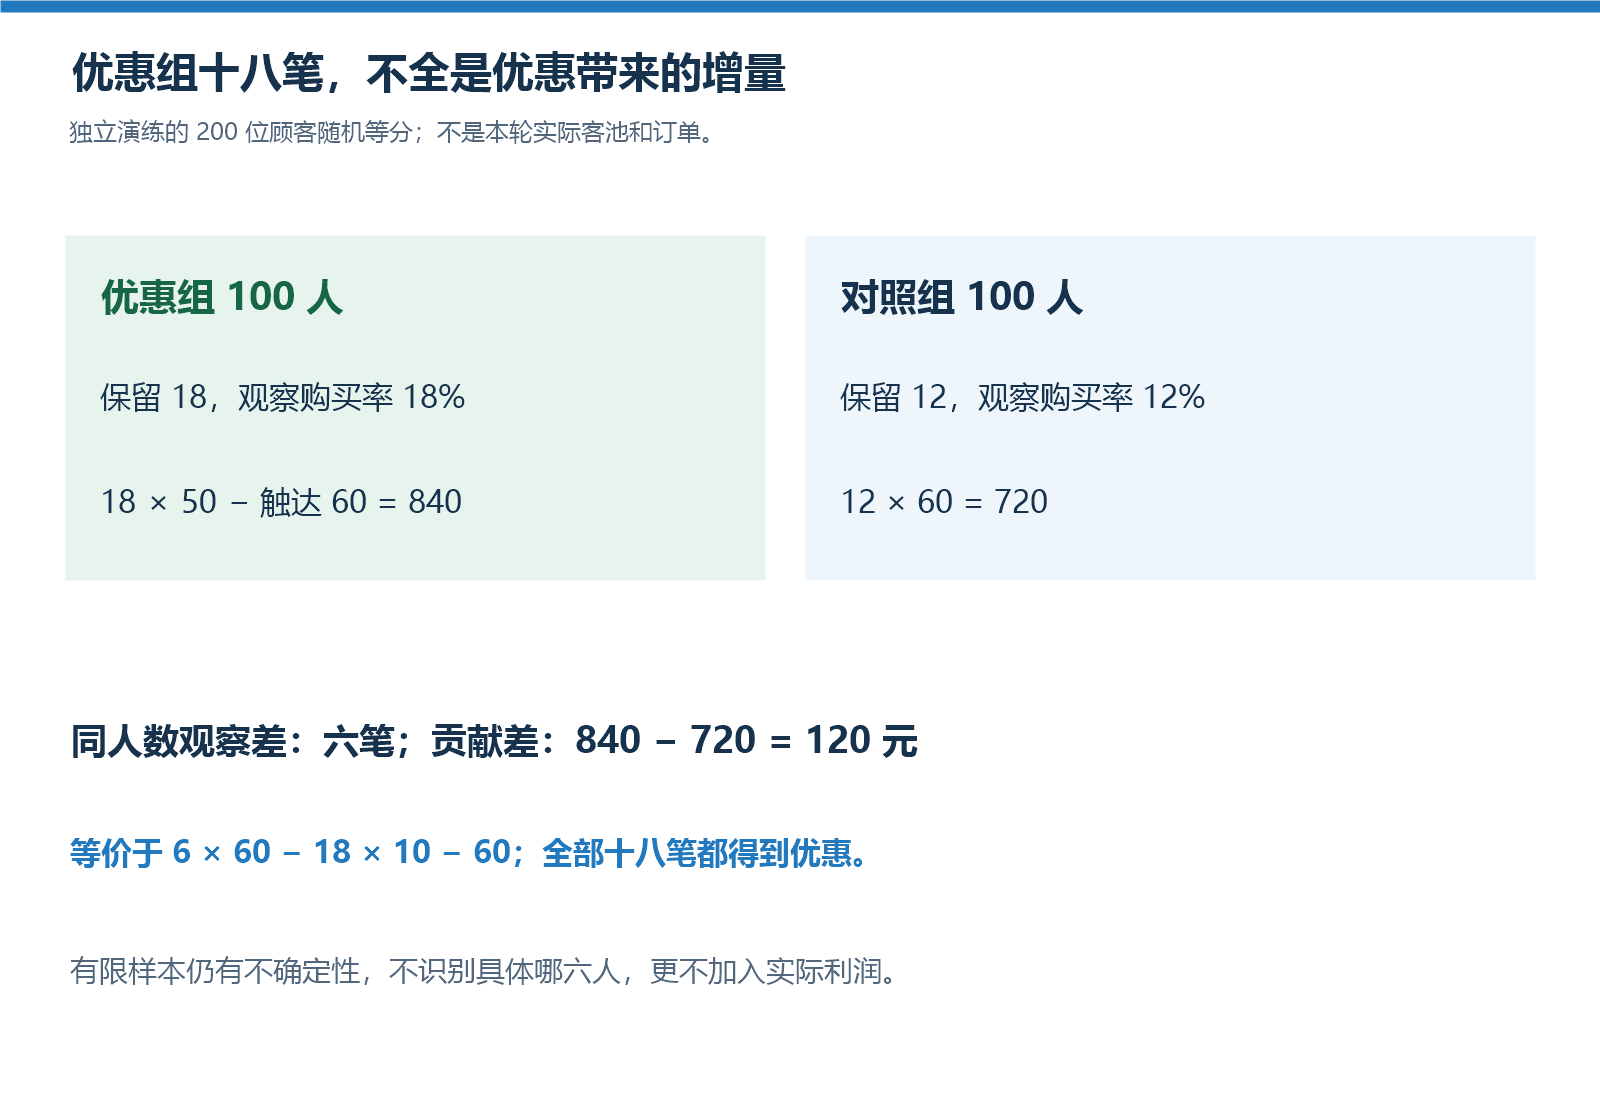
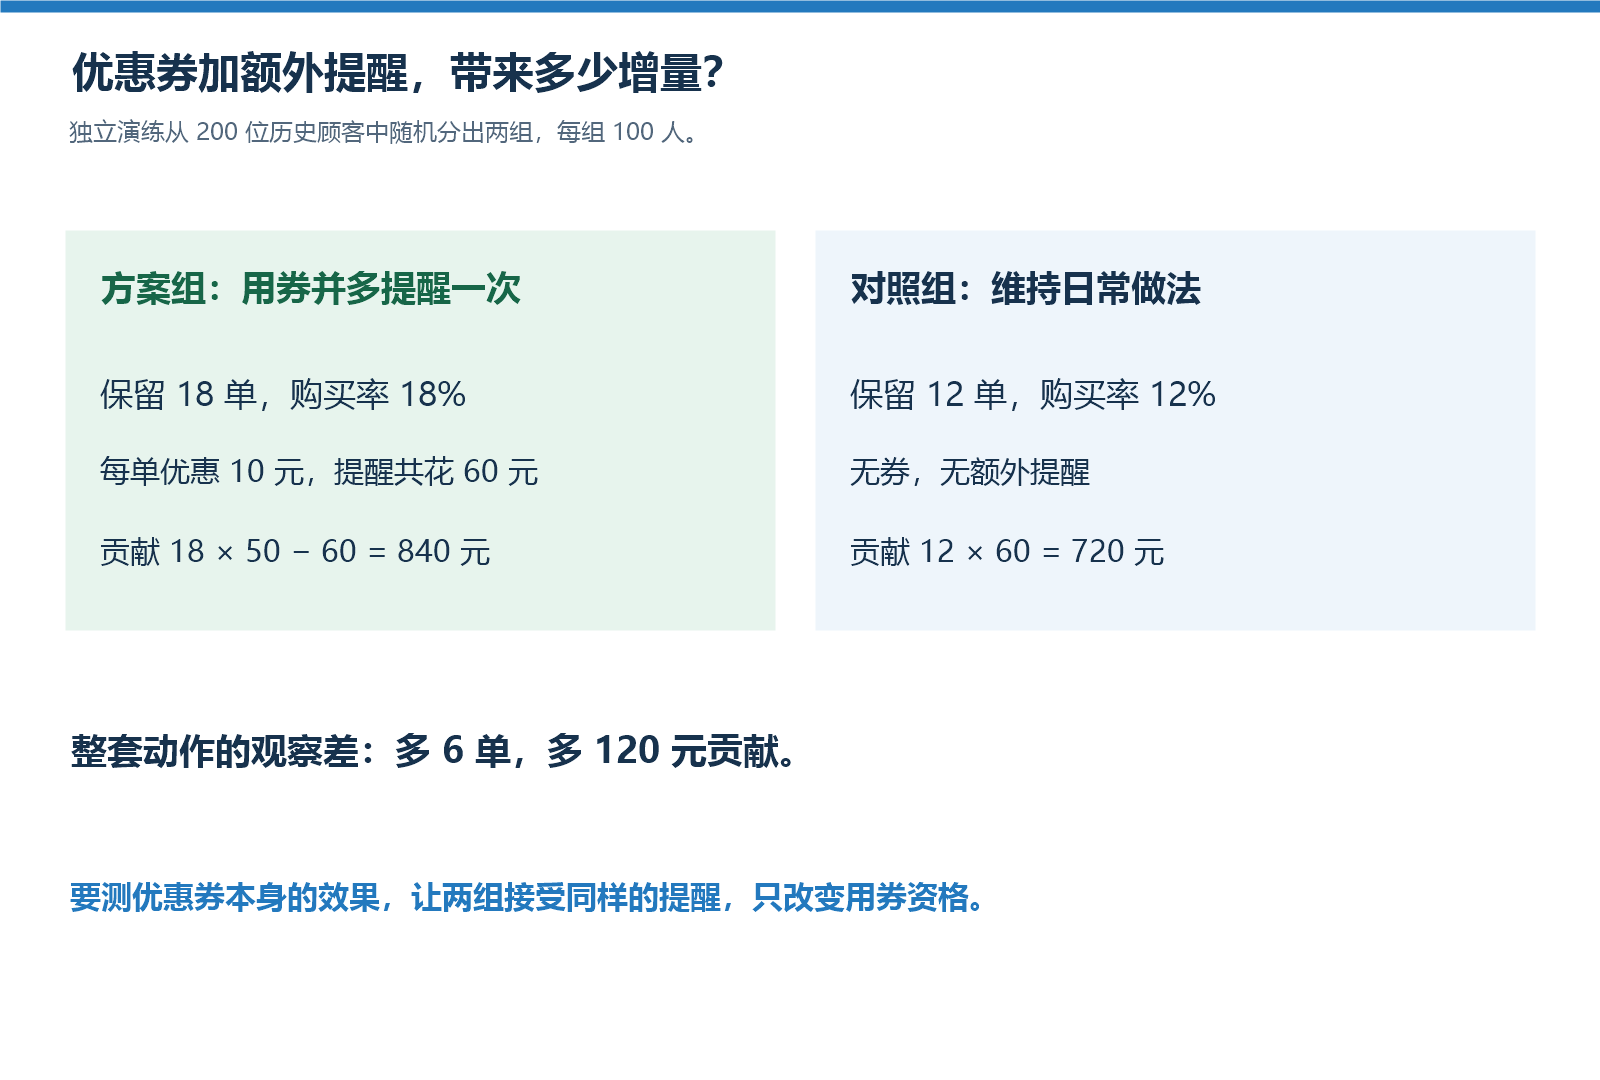
Clarify course experiment, supply planning and quarterly review

diff --git a/第七章-从流量投放到用户持续购买/第七章-从流量投放到用户持续购买.md b/第七章-从流量投放到用户持续购买/第七章-从流量投放到用户持续购买.md
@@ -335,17 +335,18 @@ ROAS 常用来表示广告归因销售额与广告费之比。本例支付口径
 | 想回答的问题 | 可以设计的比较 | 不能替代它的数字 |
 |---|---|---|
 | 新页面是否改善转化 | 同条件访客随机进入不同版本 | 新页面上线后总单量变高 |
-| 优惠是否带来额外购买 | 合适的客群随机分为优惠与对照 | 所有用券订单数 |
+| 优惠券本身是否带来额外购买 | 随机分组，两组同样触达，只改变用券资格 | 所有用券订单数 |
+| 优惠券加额外触达是否值得做 | 随机比较整套动作与平时做法 | 只统计用券订单的贡献 |
 | 广告是否创造增量 | 在可行条件下设计受众、地区或时段对照 | 广告归因销售额 |
 | 内容是否改善经营 | 先定义内容目标与可识别比较 | 播放、点赞或末次入口单量 |
 
 没有随机条件时，可以做前后或相近对象比较，但要核对活动、季节、商品、价格和受众变化，明确证据较弱。不能把同时发生的变化都归功于自己的操作。
 
-### 5.2　做一道独立优惠增量演练
+### 5.2　演练优惠券加额外触达的效果
 
-以下是为学习方法另设的 200 位历史顾客，不是本轮实际的 80 人客池，也不增加任何实际订单、优惠或费用。假定随机等分 100 人、条件相近，各人在观察期最多保留一单；优惠组每保留单减 10，对照组不减。退款已处理，其他条件不变。
+另取 200 位历史顾客作为独立演练，随机分为两组，每组 100 人。两组均保留日常服务，各人在观察期最多保留一单。方案组每保留单减 10 元，并多收到一次活动提醒，提醒服务共花 60 元。对照组维持日常做法，无券，也无额外提醒。两组的商品、库存限制、观察期及退款处理规则一致。演练数据与本轮实际 80 人客池分别记录。
 
-| 独立演练 | 优惠组 | 对照组 |
+| 独立演练 | 用券并额外提醒 | 维持日常做法 |
 |---|---:|---:|
 | 顾客数 | 100 | 100 |
 | 保留订单及购买顾客 | 18 | 12 |
@@ -355,19 +356,19 @@ ROAS 常用来表示广告归因销售额与广告费之比。本例支付口径
 | 本组额外触达费用 | 60 | 0 |
 | 贡献相抵 | 18 × 50 − 60 = 840 | 12 × 60 = 720 |
 
-![随机对照与优惠增量](images/08-随机对照与优惠增量.png)
+![随机比较优惠券加额外触达与日常做法](images/08-随机对照与优惠增量.png)
 
-*图 7-8　按同样人数的观察差估计六笔增量，不把十八笔全算成增量。*
+*图 7-8　按两组观察差估计整套动作带来的六笔增量和 120 元贡献差。*
 
-观察率差 **6 个百分点**，相对观察提升为 18%／12% − 1 = 50%。按对照估计，100 人中额外六笔；但优惠组 18 笔都用券，不能只算六笔的优惠。
+方案组和对照组的购买率相差 **6 个百分点**，相对观察提升为 18%／12% − 1 = 50%。按对照估计，整套动作让每 100 人多六笔保留订单。方案组 18 笔都用券，所以计算贡献时要承担全部 18 笔优惠。
 
 贡献差 = 6 × 60 − 18 × 10 − 60 = **120 元**，也等于 840 − 720。这里优惠已经在净贡献中扣除，没有再加一遍营销费用。
 
-这是有限样本的观察估计，不说明能辨认出具体哪六人“被优惠改变”，也不能保证重复试验仍有六笔。真实实验要预先考虑样本、随机化、观察窗口和不确定性。
+这个有限样本同时比较了优惠和提醒，数据只支持估计整套动作的效果，无法拆出其中多少来自优惠券。若问题是优惠券本身能否带来增量，两组应收到同频次、同渠道的提醒，唯一改变用券资格，并在两组各自的贡献里计入对应的触达费。正式试验还要预先确定样本、随机化、观察窗口和判断标准。
 
 ### 5.3　让实验在开始前可被复查
 
-写清业务假设、对象、分组单位、唯一变化、主指标、体验与库存约束、费用、样本及观察时长。去重和分组要稳定，顾客不要今天看旧页、明天看新页却被当成两位独立样本。
+写清业务假设、对象、分组单位、两组实际差异、主指标、体验与库存约束、费用、样本及观察时长。检验单项动作时只改变对应条件，检验整套方案时把其中各项动作写清楚。去重和分组要稳定，顾客不要今天看旧页、明天看新页却被当成两位独立样本。
 
 先安排数据记录，再开始实验。避免把效果最好的几天单独拿出来，或反复查看直到偶然出现好结果就停止。出现严重商品、交付或系统问题，可以按预设异常规则暂停并记录原因，不能把异常组删掉后宣称成功。
 
@@ -385,9 +386,9 @@ ROAS 常用来表示广告归因销售额与广告费之比。本例支付口径
 
 ### 5.5　练习与参考答案
 
-**练习。** 独立演练中，若只将六笔估计增量各减 10，贡献会被高估多少？为什么不能把 120 元写进本章实际利润？
+**练习。** 只对六笔估计增量各扣 10 元，会高估多少贡献？能否据此判断优惠券单独带来六笔增量？120 元能否并入本章实际结果？
 
-**参考答案。** 漏算其余 12 笔也得到的优惠，共 120，估计贡献会从 120 高估到 240。演练不是实际发生，不能加入真实案例的订单、销售或费用。本轮老客优惠也不能直接套用这个增量结果。
+**参考答案。** 少扣 12 笔优惠，共 120 元，估计贡献会从 120 元高估到 240 元。六笔是优惠券与提醒组合的观察估计，验证券本身需要让两组接受同样的提醒。120 元属于独立演练，本章实际结果只记录本轮发生的订单和费用。
 
 **本节交付物**　实验问题、分组与窗口、指标和停止规则、结论边界。
 

diff --git a/第十章-从跨境订单到海外交付与回款/第十章-从跨境订单到海外交付与回款.md b/第十章-从跨境订单到海外交付与回款/第十章-从跨境订单到海外交付与回款.md
@@ -90,6 +90,8 @@
 
 X6 将现有黑色 41 件中的 **20 件**按已放行的 v1 资料转入跨境专用可售区，成本仍为 20 × 42＝840 元。国内黑色可售变为 21 件，米白和小杯不变；公司总库存依旧 121 件、4,738 元。
 
+X1 重排国内窗口时，运营在 X1—X5 暂不安排国内黑杯出库，X6—X28 计划最多发黑 18 件，另留 3 件处理已知波动。X6 核对仍有完整的 41 件后，21 件留国内高于第九章的 20 件工作保留，剩余 20 件才划入跨境。仓库每日核实各自可承诺量，遇到国内需要扩大名额时，先做独立供需评审。最终国内黑杯实际出库 9 件，退回恢复 1 件，期末剩 13 件。
+
 区域标识 XB500-BK v1 与国内 SH500-BK 对应同一批实物的不同用途状态，不能两边同时算可售。区域包装在实际出库时每件支出 6 元，不预先增加库存价值；本案例按履约费用处理。
 
 ![试点条件与版本放行](images/01-试点条件与版本放行.png)
